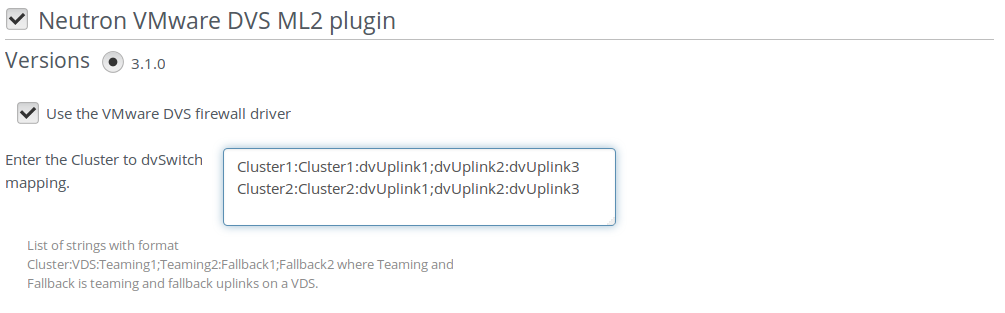
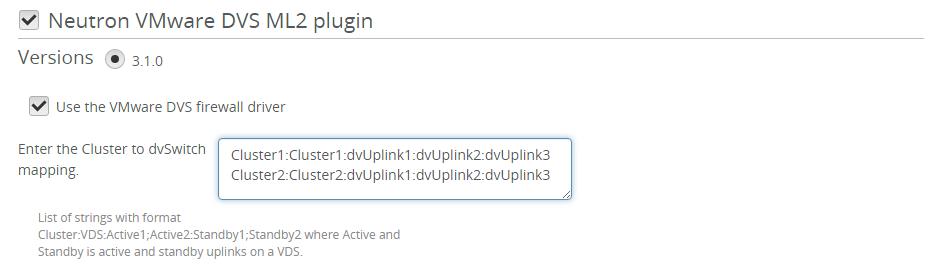
Rename teaming and fallback uplinks
TeamingUplink was renamed to ActiveUplink, FallbackUplink was
renamed to StandbyUplink due to VMware terminology.

Rename affected tests (plans, test groups, automation) and
UI (description string).

diff --git a/plugin_test/tests/test_plugin_vmware_dvs_system.py b/plugin_test/tests/test_plugin_vmware_dvs_system.py
@@ -2243,10 +2243,10 @@ class TestDVSSystem(TestBasic):
         assert_true(os_conn.get_network('spring')['id'] == default_net.id)
 
     @test(depends_on=[SetupEnvironment.prepare_slaves_5],
-          groups=["dvs_multiple_uplinks_teaming_fallback"])
+          groups=["dvs_multiple_uplinks_active_standby"])
     @log_snapshot_after_test
-    def dvs_multiple_uplinks_teaming_fallback(self):
-        """Launch cluster with multiple teaming and fallback uplinks.
+    def dvs_multiple_uplinks_active_standby(self):
+        """Launch cluster with multiple active and standby uplinks.
 
         Scenario:
             1. Upload DVS plugin to the master node.
@@ -2268,13 +2268,13 @@ class TestDVSSystem(TestBasic):
             9. Configure VMware vCenter Settings. Add 2 vSphere clusters and configure
                Nova Compute instances on controllers and compute-vmware.
             10. Enable and configure DVS plugin with multiple uplinks.
-                In foramt "Cluster:VDS:TU1;TU2:FU3".
+                In foramt "Cluster:VDS:AU1;AU2:SU3".
             11. Verify networks.
             12. Deploy cluster.
             13. Run OSTF.
 
         Duration: 1.8 hours
-        Snapshot: dvs_multiple_uplinks_teaming_fallback
+        Snapshot: dvs_multiple_uplinks_active_standby
 
         """
         self.env.revert_snapshot("ready_with_5_slaves")
@@ -2310,7 +2310,7 @@ class TestDVSSystem(TestBasic):
             multiclusters=True)
 
         self.show_step(10)
-        plugin.enable_plugin(cluster_id, self.fuel_web, tu=2, fu=1)
+        plugin.enable_plugin(cluster_id, self.fuel_web, au=2, su=1)
 
         self.show_step(11)
         self.fuel_web.verify_network(cluster_id)
@@ -2322,10 +2322,10 @@ class TestDVSSystem(TestBasic):
         self.fuel_web.run_ostf(cluster_id=cluster_id, test_sets=['smoke'])
 
     @test(depends_on=[SetupEnvironment.prepare_slaves_5],
-          groups=["dvs_multiple_uplinks_teaming"])
+          groups=["dvs_multiple_uplinks_active"])
     @log_snapshot_after_test
-    def dvs_multiple_uplinks_teaming(self):
-        """Launch cluster with multiple teaming uplinks.
+    def dvs_multiple_uplinks_active(self):
+        """Launch cluster with multiple active uplinks.
 
         Scenario:
             1. Upload DVS plugin to the master node.
@@ -2347,13 +2347,13 @@ class TestDVSSystem(TestBasic):
             9. Configure VMware vCenter Settings. Add 2 vSphere clusters and configure
                Nova Compute instances on controllers and compute-vmware.
             10. Enable and configure DVS plugin with multiple uplinks.
-                In format "Cluster:VDS:TU1;TU2;TU3".
+                In format "Cluster:VDS:AU1;AU2;SU3".
             11. Verify networks.
             12. Deploy cluster.
             13. Run OSTF.
 
         Duration: 1.8 hours
-        Snapshot: dvs_multiple_uplinks_teaming
+        Snapshot: dvs_multiple_uplinks_active
 
         """
         self.env.revert_snapshot("ready_with_5_slaves")
@@ -2389,7 +2389,7 @@ class TestDVSSystem(TestBasic):
             multiclusters=True)
 
         self.show_step(10)
-        plugin.enable_plugin(cluster_id, self.fuel_web, tu=3, fu=0)
+        plugin.enable_plugin(cluster_id, self.fuel_web, au=3, su=0)
 
         self.show_step(11)
         self.fuel_web.verify_network(cluster_id)

diff --git a/plugin_test/helpers/plugin.py b/plugin_test/helpers/plugin.py
@@ -40,44 +40,44 @@ def install_dvs_plugin(master_node):
                                     os.path.basename(DVS_PLUGIN_PATH))
 
 
-def enable_plugin(cluster_id, fuel_web_client, multiclusters=True, tu=0, fu=0):
+def enable_plugin(cluster_id, fuel_web_client, multiclusters=True, au=0, su=0):
     """Enable DVS plugin on cluster.
 
     :param cluster_id: cluster id
     :param fuel_web_client: fuel_web
     :param multiclusters: boolean. True if Multicluster is used.
-    :param tu: int, amount of teaming uplinks
-    :param fu: int, amount of falback uplinks
+    :param au: int, amount of active uplinks
+    :param su: int, amount of standby uplinks
     :return: None
     """
     checker = fuel_web_client.check_plugin_exists(cluster_id, plugin_name)
     assert_true(checker, msg)
-    opts = {'vmware_dvs_net_maps/value': make_map_data(multiclusters, tu, fu)}
+    opts = {'vmware_dvs_net_maps/value': make_map_data(multiclusters, au, su)}
     logger.info("cluster is {0}".format(cluster_id))
     fuel_web_client.update_plugin_settings(cluster_id, plugin_name,
                                            DVS_PLUGIN_VERSION, opts)
 
 
-def make_map_data(multiclusters=False, tu=2, fu=1):
+def make_map_data(multiclusters=False, au=2, su=1):
     """ Make DVS mapping data to paste it to options
 
     :param multiclusters: boolean. True if Multicluster is used.
-    :param tu: int, amount of teaming uplinks
-    :param fu: int, amount of falback uplinks
+    :param au: int, amount of active uplinks
+    :param su: int, amount of standby uplinks
     :return:
     """
-    assert_true(False if fu > 0 and tu == 0 else True,
-                "We couldn't set Fallback uplinks "
-                "if amount of teaming uplinks equals zero."
-                "tu = {0}, fu = {1}".format(tu, fu))
+    assert_true(False if su > 0 and au == 0 else True,
+                "We couldn't set Standby uplinks "
+                "if amount of Active uplinks equals zero."
+                "tu = {0}, fu = {1}".format(au, su))
 
     map_sw_cl = map(lambda x, y: "{0}:{1}".format(x, y),
                     VCENTER_CLUSTERS, DVS_SWITCHES)
-    if any([tu, fu]):
-        assert_true(tu + fu <= len(DVS_UPLINKS), 'Not enough uplinks')
-        data = [c + ':' + ';'.join(DVS_UPLINKS[:tu]) for c in map_sw_cl]
-        if fu > 0:
-            data = [v + ':' + ';'.join(DVS_UPLINKS[tu:tu+fu]) for v in data]
+    if any([au, su]):
+        assert_true(au + su <= len(DVS_UPLINKS), 'Not enough uplinks')
+        data = [c + ':' + ';'.join(DVS_UPLINKS[:au]) for c in map_sw_cl]
+        if su > 0:
+            data = [v + ':' + ';'.join(DVS_UPLINKS[au:au + su]) for v in data]
         return '\n'.join(data if multiclusters else data[0:1])
     else:
         return '\n'.join(map_sw_cl if multiclusters else map_sw_cl[0:1])

diff --git a/docs/test_plan/source/test_suite_system.rst b/docs/test_plan/source/test_suite_system.rst
@@ -1349,18 +1349,18 @@ Cluster is deployed successfully and all OSTF tests are passed.
 CA file was uploaded on all nodes with DVS agents and 'insecure' option for dvs agents is set to False.
 
 
-Launch cluster with multiple teaming uplinks.
----------------------------------------------
+Launch cluster with multiple active uplinks.
+--------------------------------------------
 
 ID
 ##
 
-dvs_multiple_uplinks_teaming
+dvs_multiple_uplinks_active
 
 Description
 ###########
 
-Launch cluster with multiple teaming uplinks.
+Launch cluster with multiple active uplinks.
 
 Complexity
 ##########
@@ -1384,7 +1384,7 @@ Steps
     4. Configure interfaces on nodes.
     5. Configure network settings.
     6. Enable and configure DVS plugin with multiple uplinks.
-       In format "Cluster:VDS:TU1;TU2;TU3".
+       In format "Cluster:VDS:AU1;AU2;AU3".
     7. Enable VMware vCenter/ESXi datastore for images (Glance).
     8. Configure VMware vCenter Settings. Add 2 vSphere clusters and configure
        Nova Compute instances on controllers and compute-vmware.
@@ -1398,18 +1398,18 @@ Expected result
 Cluster is deployed successfully and all OSTF tests are passed.
 
 
-Launch cluster with multiple teaming and fallback uplniks.
-----------------------------------------------------------
+Launch cluster with multiple active and standby uplniks.
+--------------------------------------------------------
 
 ID
 ##
 
-dvs_multiple_uplinks_teaming_fallback
+dvs_multiple_uplinks_active_standby
 
 Description
 ###########
 
-Launch cluster with multiple teaming and fallback uplinks.
+Launch cluster with multiple active and standby uplinks.
 
 Complexity
 ##########
@@ -1433,7 +1433,7 @@ Steps
     4. Configure interfaces on nodes.
     5. Configure network settings.
     6. Enable and configure DVS plugin with multiple uplinks.
-       In foramt "Cluster:VDS:TU1;TU2:FU3".
+       In foramt "Cluster:VDS:AU1;AU2:SU3".
     7. Enable VMware vCenter/ESXi datastore for images (Glance).
     8. Configure VMware vCenter Settings. Add 2 vSphere clusters and configure
        Nova Compute instances on controllers and compute-vmware.
@@ -1448,19 +1448,19 @@ Cluster is deployed successfully and all OSTF tests are passed.
 
 
 
-Disable teaming uplinks.
-------------------------
+Disable active uplinks.
+-----------------------
 
 
 ID
 ##
 
-dvs_multiple_uplinks_disable_teaming
+dvs_multiple_uplinks_disable_active
 
 Description
 ###########
 
-Disable teaming uplinks.
+Disable active uplinks.
 
 Complexity
 ##########
@@ -1470,36 +1470,36 @@ core
 Steps
 #####
 
-    1. Launch cluster with 2 teaming and 1 fallback uplinks.
+    1. Launch cluster with 2 active and 1 standby uplinks.
     2. Run OSTF.
     3. Up instance in default net in vCenter availability zone
     4. Up instance in default net in nova availability zone
-    5. Disable first teaming uplink in vCenter.
+    5. Disable first active uplink in vCenter.
     6. Check instances are alive and functioning.
-    7. Disable all teaming uplinks in vCenter.
+    7. Disable all active uplinks in vCenter.
     8. Check instances are alive and functioning.
     9. Run OSTF.
 
 Expected result
 ###############
 
-After disabling teaming uplinks instances are alive and functioning.
+After disabling active uplinks instances are alive and functioning.
 All OSTF tests passed.
 
 
-Disabele teaming uplinks on cluster without fallback uplinks.
--------------------------------------------------------------
+Disable active uplinks on cluster without standby uplinks.
+----------------------------------------------------------
 
 
 ID
 ##
 
-dvs_multiple_uplinks_disable_teaming_without_fu
+dvs_multiple_uplinks_disable_active_without_su
 
 Description
 ###########
 
-Disabele teaming uplinks on cluster without fallback uplinks.
+Disable active uplinks on cluster without standby uplinks.
 
 Complexity
 ##########
@@ -1509,16 +1509,16 @@ core
 Steps
 #####
 
-    1. Launch cluster with 3 teaming uplinks.
+    1. Launch cluster with 3 active uplinks.
     2. Run OSTF.
     3. Up instance in default net in vCenter availability zone
     4. Up instance in default net in nova availability zone
-    5. Disable two used teaming uplinks in vCenter.
+    5. Disable two used active uplinks in vCenter.
     6. Check instances are alive and functioning.
     7. Run OSTF.
 
 Expected result
 ###############
 
-After disabling two of three teaming uplinks instances are alive and functioning.
+After disabling two of three active uplinks instances are alive and functioning.
 All OSTF tests passed.

diff --git a/docs/user_guide/config.rst b/docs/user_guide/config.rst
@@ -21,7 +21,7 @@ creating an environment in Fuel and modifying the environment settings.
 
    \pagebreak
 
-#. In the :guilabel:`Networking Setup` menu, select
+3. In the :guilabel:`Networking Setup` menu, select
    :guilabel:`Neutron with VMware DVS`:
 
    .. figure:: _static/net.png
@@ -47,24 +47,24 @@ creating an environment in Fuel and modifying the environment settings.
 
    \pagebreak
 
-#. In the :guilabel:`Networks` tab, click :guilabel:`Other`:
+6. In the :guilabel:`Networks` tab, click :guilabel:`Other`:
 
    #. Select the :guilabel:`Neutron VMware DVS ML2 plugin` checkbox.
    #. Specify the :guilabel:`Cluster to VDSwitch mapping`. Please notice that
       in the 3.1 release it has new format:
 
       #. New string is used as a delimiter between clusters.
-      #. There are 2 new columns: list of teaming uplinks and list of fallback
+      #. There are 2 new columns: list of active uplinks and list of standby
          uplinks. Both are optional.
       #. The semicolon is used as a delimiter between uplinks.
       #. There is no limitation for amount of uplinks.
       #. Thereby there are next options for a mapping-string:
 
-         #. ClusterName:VDSName:TeamingUplink1;TeamingUplink2:FallBackUplink1;FallBackUplink2
-         #. ClusterName:VDSName:TeamingUplink1;TeamingUplink2;...;TeamingUplinkN
+         #. ClusterName:VDSName:ActiveUplink1;ActiveUplink2:StandbyUplink1;StandbyUplink2
+         #. ClusterName:VDSName:ActiveUplink1;ActiveUplink2;...;ActiveUplinkN
          #. ClusterName:VDSName
 
-      #. There is no option to set fallback uplinks without teaming uplinks.
+      #. There is no option to set standby uplinks without active uplinks.
       #. All uplinks should be presented on real VDS.
    #. If you want to use security groups on your ports, select
       :guilabel:`Use the VMware DVS firewall driver`.
@@ -82,7 +82,7 @@ creating an environment in Fuel and modifying the environment settings.
 
    \pagebreak
 
-#. In the :guilabel:`VMware` tab, fill in the VMware configuration fields:
+7. In the :guilabel:`VMware` tab, fill in the VMware configuration fields:
 
    .. figure:: _static/vmware.png
       :width: 90%

diff --git a/docs/test_plan/source/test_suite_smoke.rst b/docs/test_plan/source/test_suite_smoke.rst
@@ -107,7 +107,7 @@ Steps
     3. Go to Network tab -> Other subtab and check DVS plugin section is displayed with all required GUI elements:
        'Neutron VMware DVS ML2 plugin' checkbox
        'Use the VMware DVS firewall driver' checkbox
-       'Enter the cluster to dvSwitch mapping.' text field with description 'List of strings with format ClusterName:dvSwitchName:TeamingUplink1;TeamingUplink2:FallbackUplink1;FallbackUplink2.'
+       'Enter the cluster to dvSwitch mapping.' text field with description 'List of strings with format ClusterName:dvSwitchName:ActiveUplink1;ActiveUplink2:StandbyUplink1;StandbyUplink2.'
        'Versions' radio button with <plugin version>
     4. Verify that checkbox 'Neutron VMware DVS ML2 plugin' is enabled by default.
     5. Verify that user can disable/enable the DVS plugin by clicking on the checkbox 'Neutron VMware DVS ML2 plugin'.

diff --git a/docs/user_guide/install.rst b/docs/user_guide/install.rst
@@ -37,7 +37,7 @@ Before you proceed with the VMware DVS plugin installation, verify that:
      # fuel plugins
 
      +------+--------------------------+-----------+--------------------+
-     | id   | name                     | version   | package\_version   |
+     | id   | name                     | version   | package_version    |
      +------+--------------------------+-----------+--------------------+
      | 2    | fuel-plugin-vmware-dvs   | 3.1.0     | 4.0.0              |
      +------+--------------------------+-----------+--------------------+
